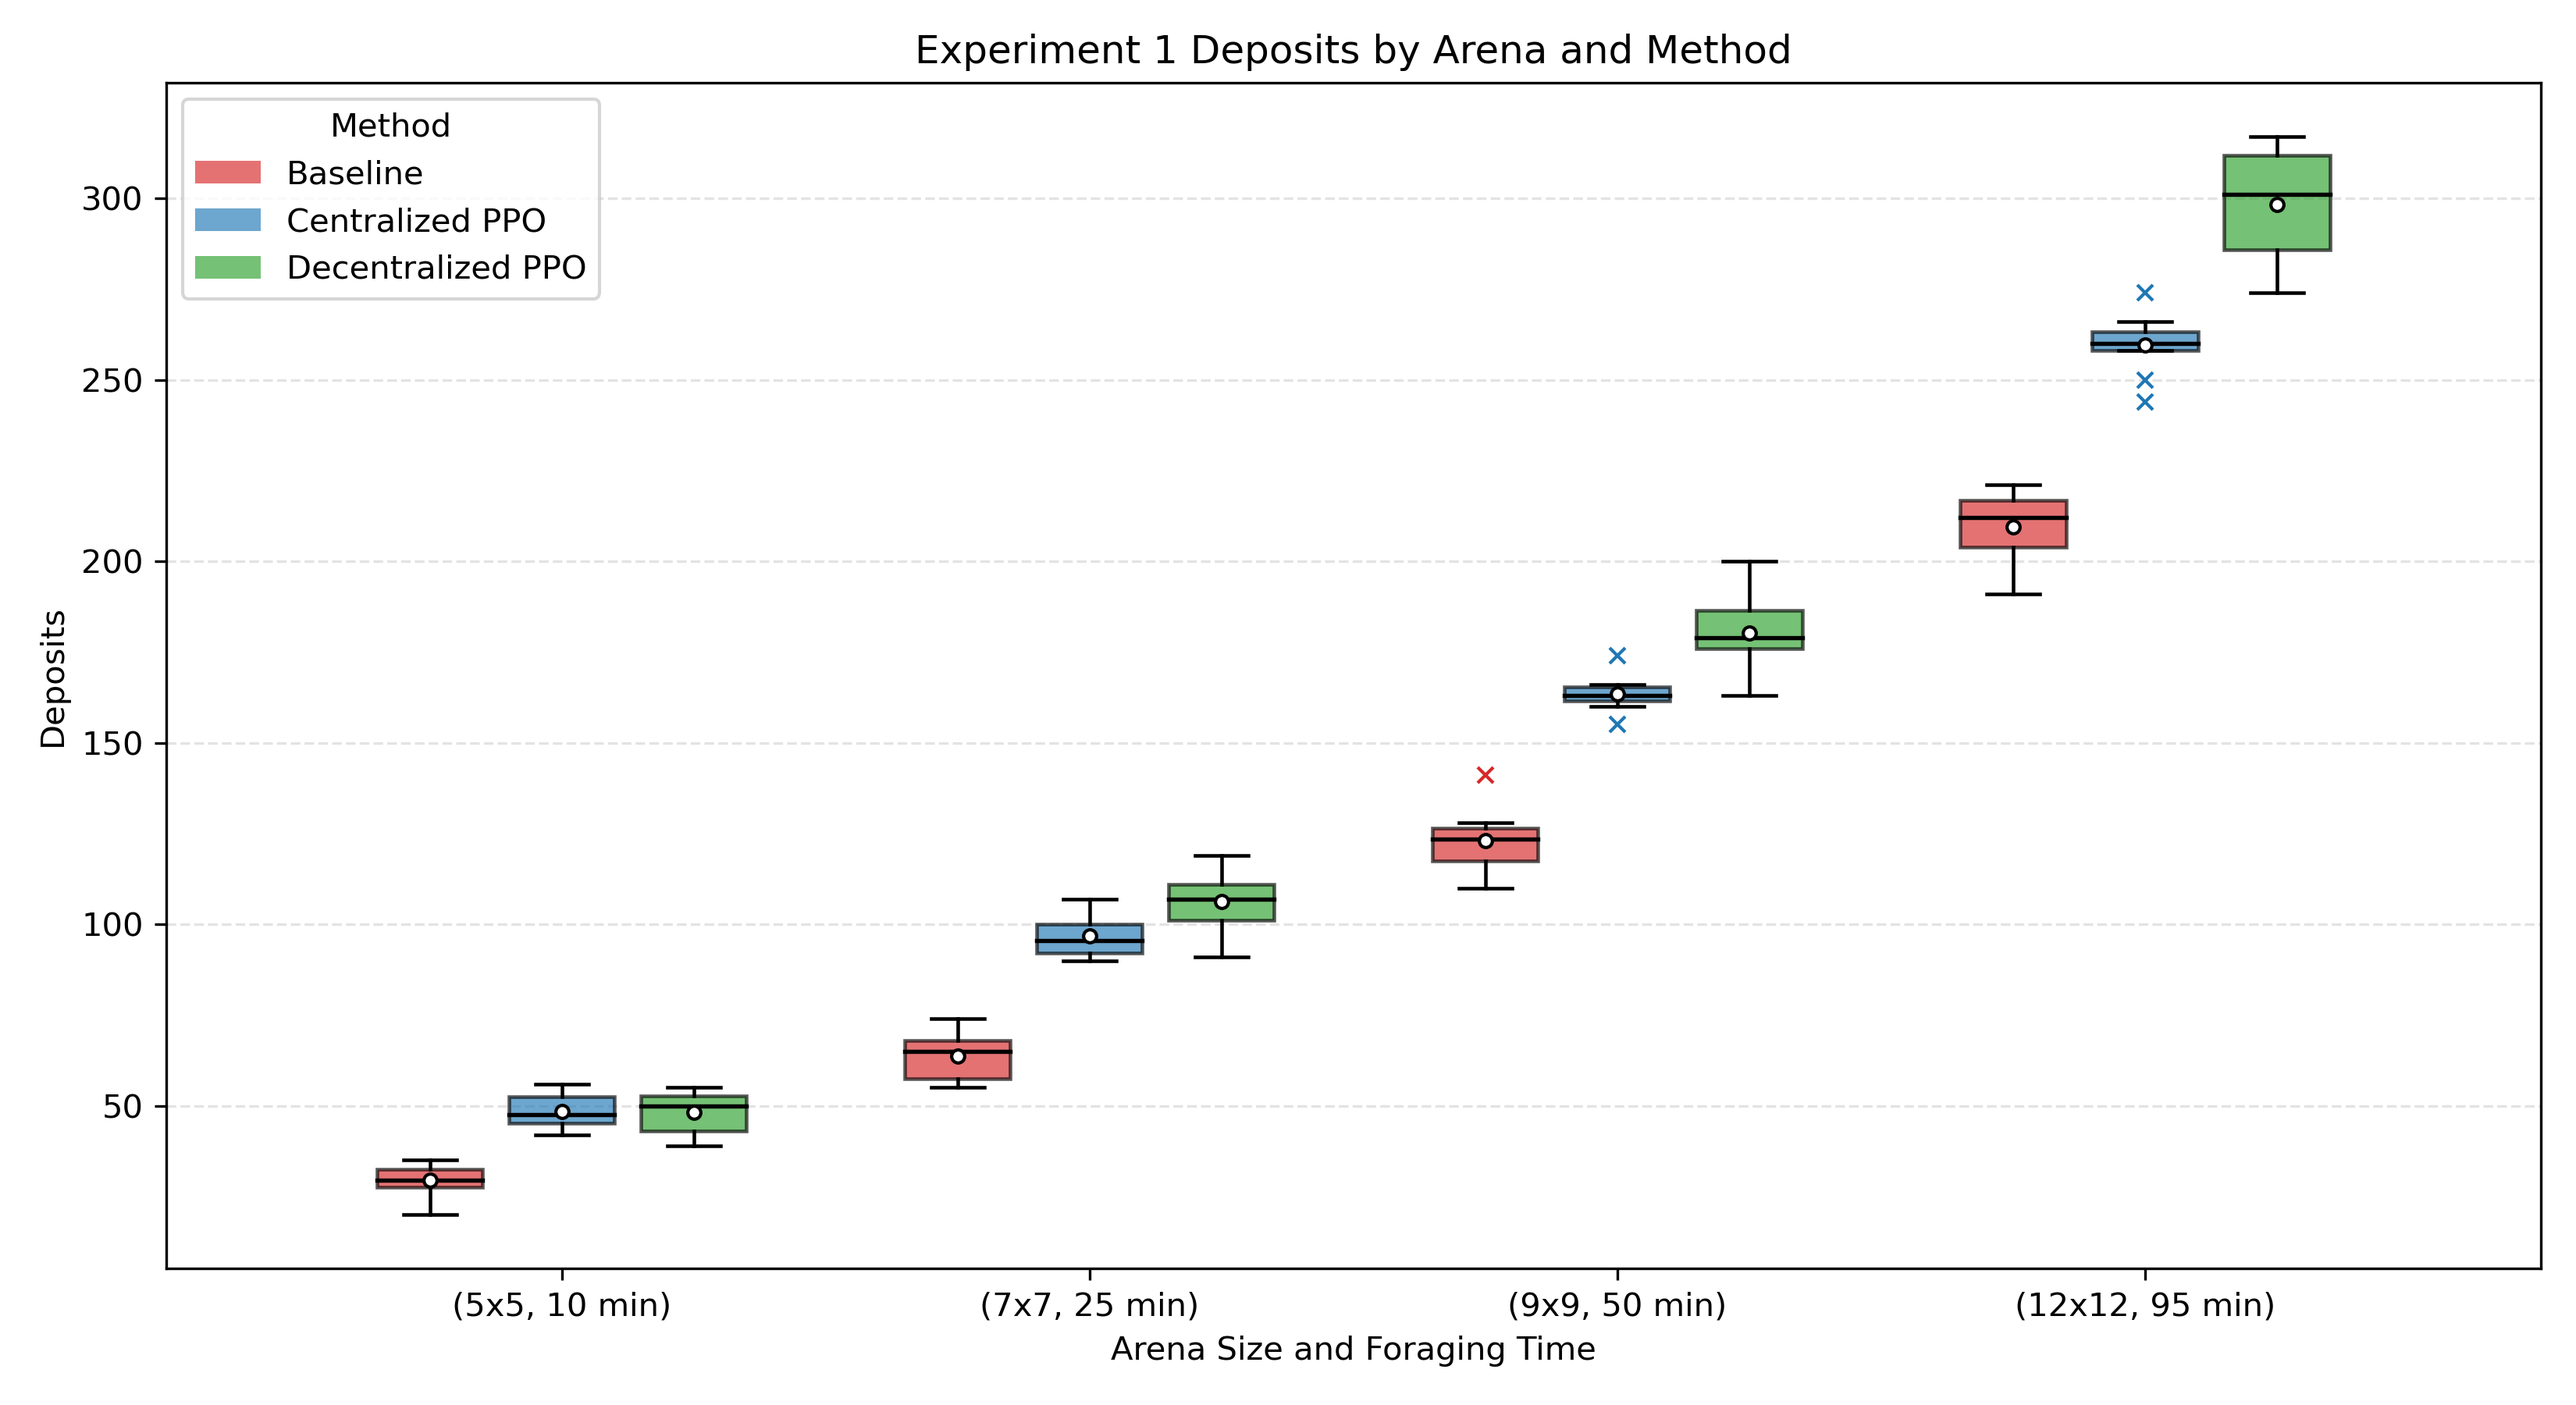
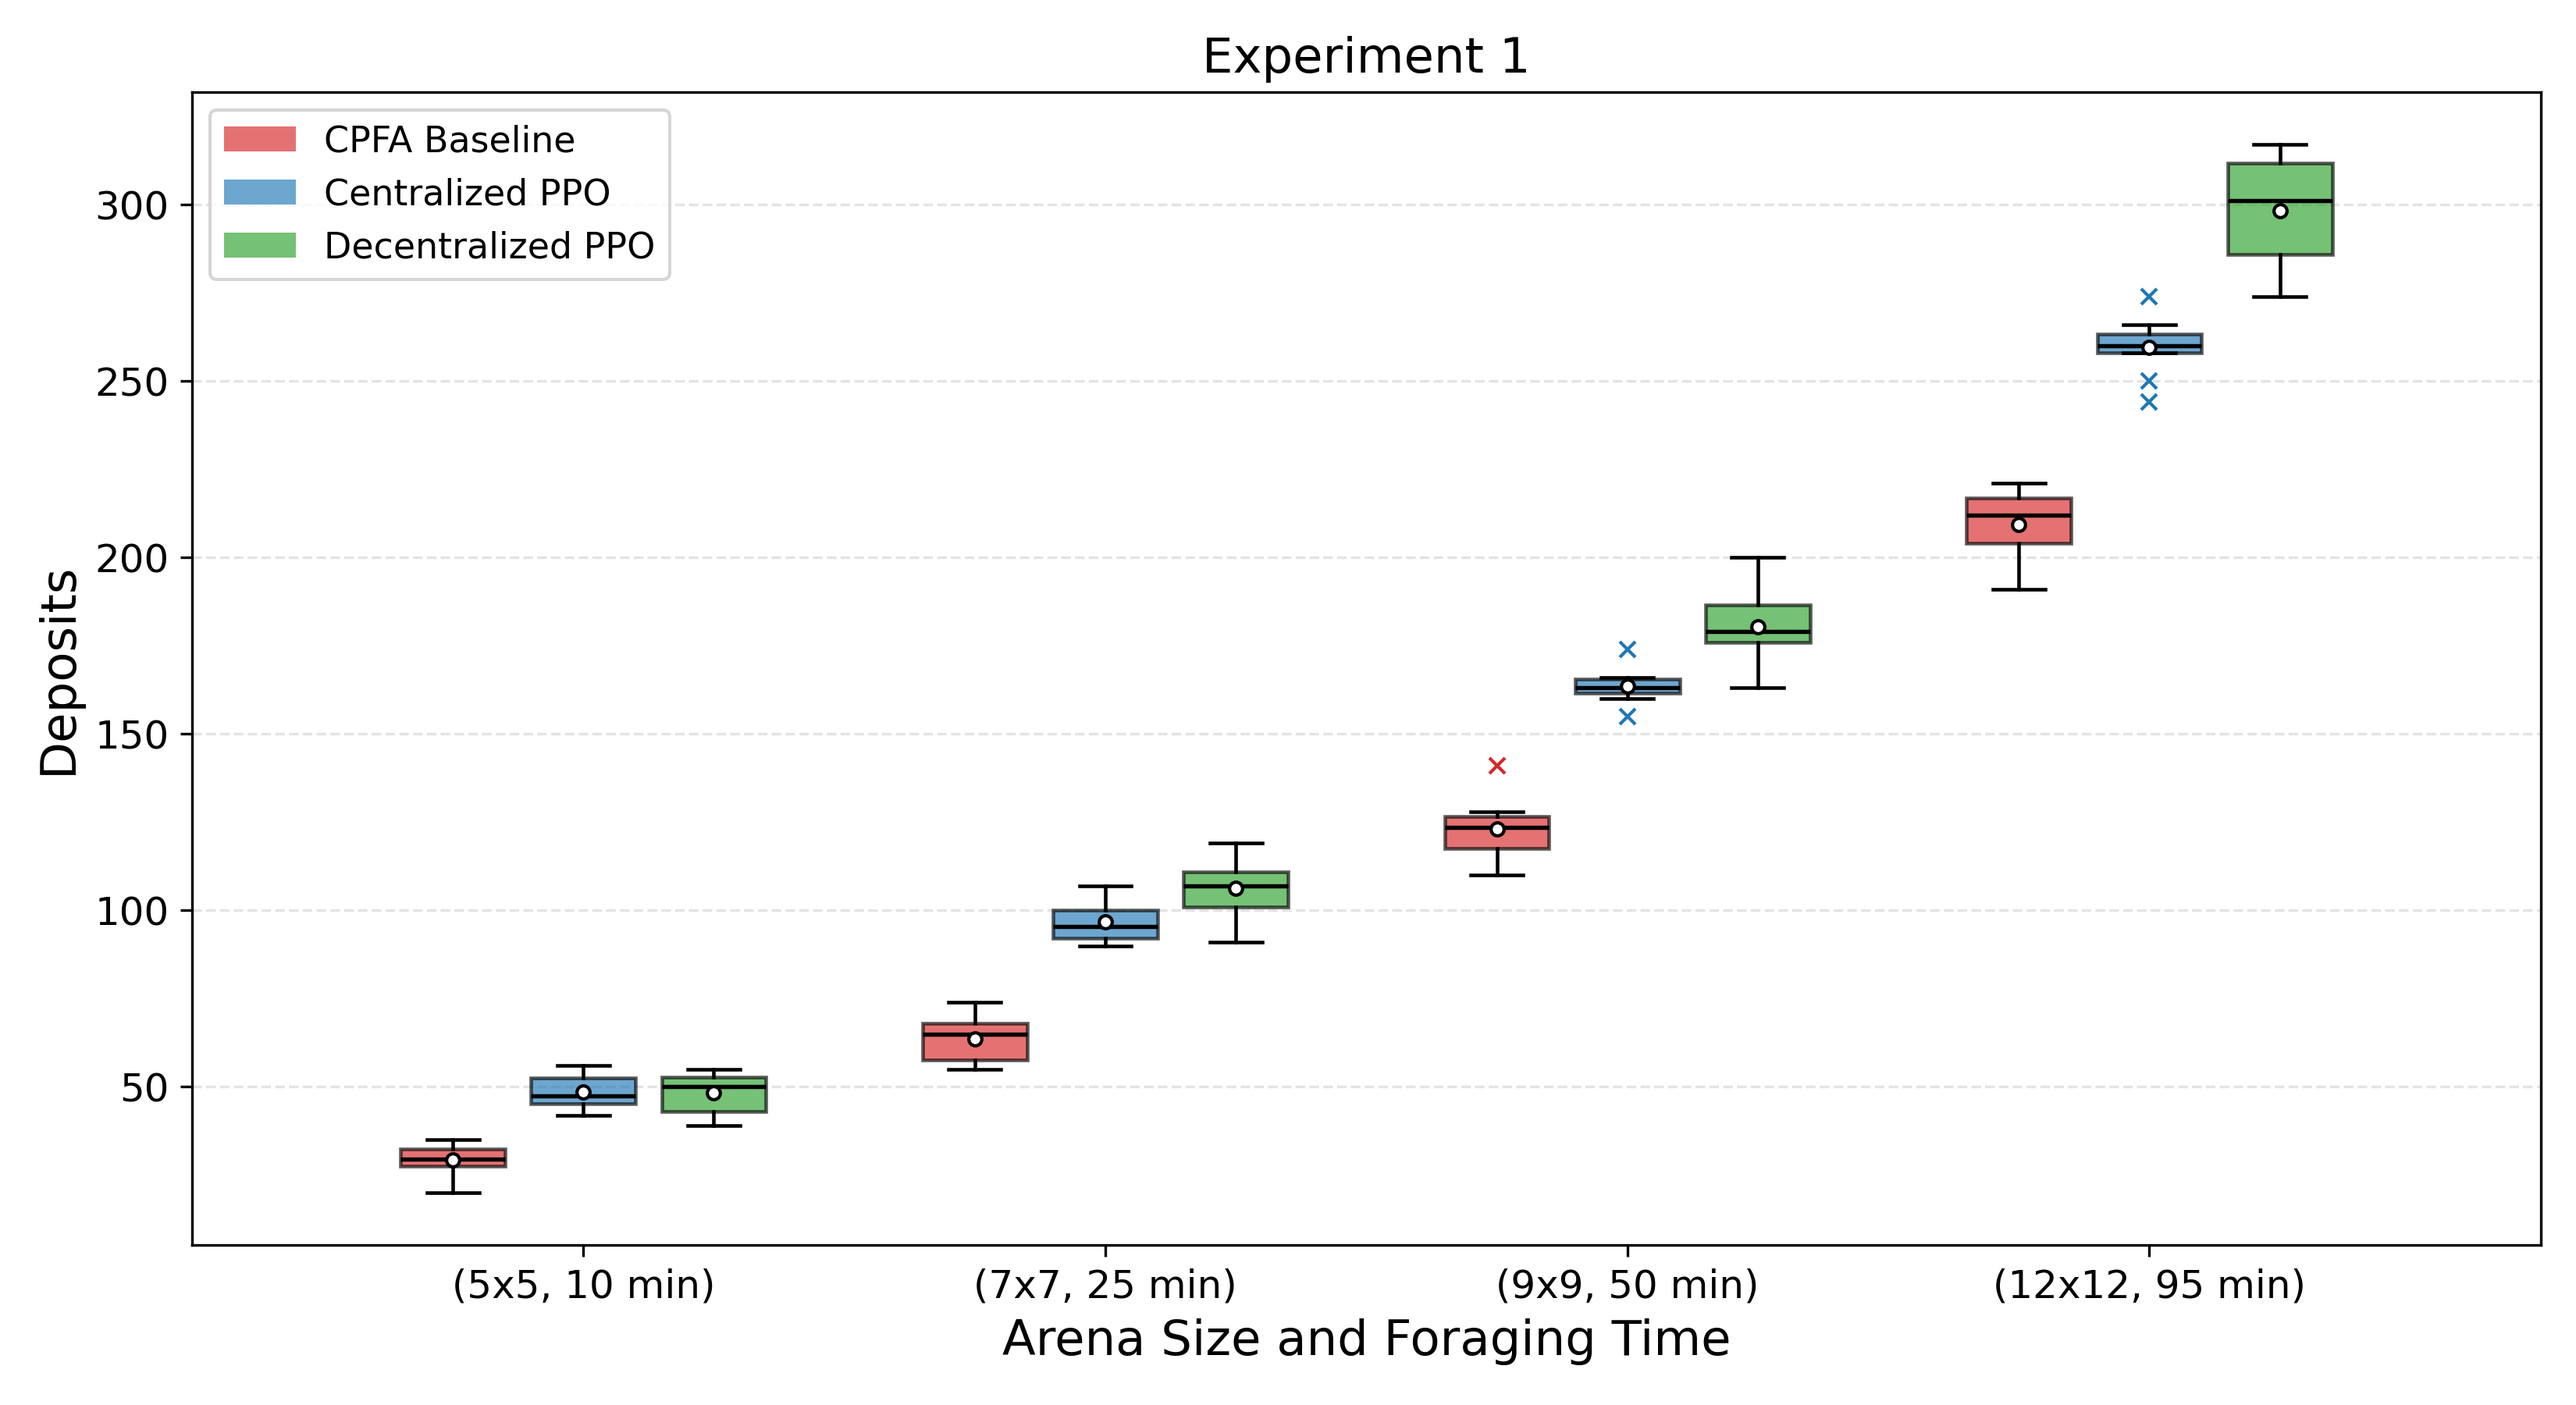
boxplots fixed

diff --git a/experiment1_boxplot.py b/experiment1_boxplot.py
@@ -20,7 +20,7 @@ from matplotlib.patches import Patch
 METHODS = ["cpfa_baseline", "centralized_ppo", "decentralized_ppo"]
 
 METHOD_LABELS = {
-    "cpfa_baseline": "Baseline",
+    "cpfa_baseline": "CPFA Baseline",
     "centralized_ppo": "Centralized PPO",
     "decentralized_ppo": "Decentralized PPO",
 }
@@ -136,20 +136,22 @@ def plot_boxplots(data, times_by_arena, output_path):
             patch.set_facecolor(METHOD_COLORS[method])
             patch.set_alpha(0.65)
 
-    ax.set_title("Experiment 1 Deposits by Arena and Method")
-    ax.set_xlabel("Arena Size and Foraging Time")
-    ax.set_ylabel("Deposits")
+    ax.set_title("Experiment 1", fontsize=15)
+    ax.set_xlabel("Arena Size and Foraging Time", fontsize=15)
+    ax.set_ylabel("Deposits", fontsize=15)
     ax.set_xticks(group_centers)
     ax.set_xticklabels(
-        [f"({arena}, {times_by_arena[arena]} min)" for arena in arenas]
+        [f"({arena}, {times_by_arena[arena]} min)" for arena in arenas],
+        fontsize=12,
     )
+    ax.tick_params(axis="y", labelsize=12)
     ax.grid(axis="y", linestyle="--", alpha=0.35)
 
     handles = [
         Patch(facecolor=METHOD_COLORS[method], alpha=0.65, label=METHOD_LABELS[method])
         for method in METHODS
     ]
-    ax.legend(handles=handles, title="Method")
+    ax.legend(handles=handles, fontsize=11)
 
     fig.tight_layout()
     output_path.parent.mkdir(parents=True, exist_ok=True)

diff --git a/experiment2_boxplot.py b/experiment2_boxplot.py
@@ -19,7 +19,7 @@ from matplotlib.patches import Patch
 METHODS = ["cpfa_baseline", "centralized_ppo", "decentralized_ppo"]
 
 METHOD_LABELS = {
-    "cpfa_baseline": "Baseline",
+    "cpfa_baseline": "CPFA Baseline",
     "centralized_ppo": "Centralized PPO",
     "decentralized_ppo": "Decentralized PPO",
 }
@@ -139,7 +139,7 @@ def plot_boxplots(data, groups, output_path):
         Patch(facecolor=METHOD_COLORS[method], alpha=0.65, label=METHOD_LABELS[method])
         for method in METHODS
     ]
-    ax.legend(handles=handles, title="Method")
+    ax.legend(handles=handles)
 
     fig.tight_layout()
     output_path.parent.mkdir(parents=True, exist_ok=True)
